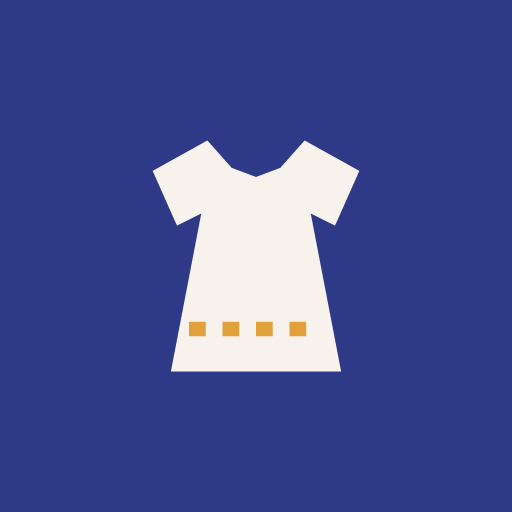
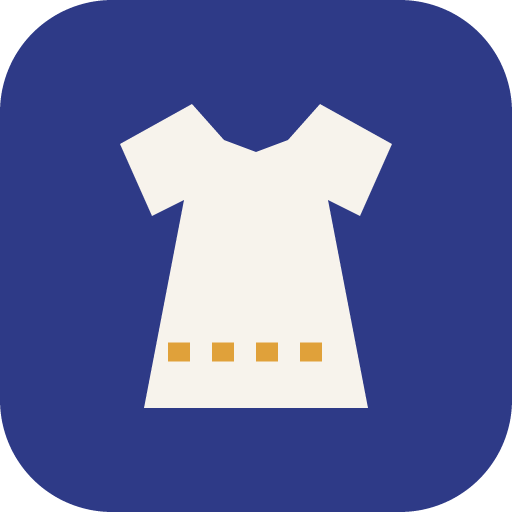
Desktop app: installable Mabubu with an honest install button, stable identity and version info
- Manifest: id '/' and scope '/' written out (what browsers already derived
  from start_url, so phones that installed it keep one app, no duplicate);
  launch_handler focus-existing (opening Mabubu again brings the open window
  forward); lang and categories; a rounded 512 px "any" icon for the Windows
  shortcut, taskbar and Start menu, and the full-bleed artwork as a separate
  maskable icon for Android.
- Install button only when the browser has offered an install
  (beforeinstallprompt), using the browser's own dialog — never a button that
  does nothing. Otherwise plain Chrome/Edge/Android instructions. Under Me:
  "Installed — running as the app" or "Running in the browser", and the app
  version (0.1.0 · testing) with its build date. A dismissible one-line offer
  on the manager overview. The installed app is the same site: same account,
  records and server; nothing is copied.
- en/fr/sw strings (not native-reviewed).

diff --git a/src/client/ui/Install.tsx b/src/client/ui/Install.tsx
@@ -1,0 +1,82 @@
+import { useState } from 'react';
+import { promptInstall, useInstall } from '../lib/install';
+import { useT } from '../lib/i18n';
+import { fmtDate } from '../../shared/time';
+import { Icon } from './Icon';
+import { toast } from './kit';
+
+const DISMISS_KEY = 'mabubu.installBannerDismissed';
+
+async function install(t: ReturnType<typeof useT>) {
+  if ((await promptInstall()) === 'accepted') toast(t('inst.started'));
+}
+
+/** Under Me: how this device runs Mabubu, the browser's own install offer when there is one, and the version. */
+export function InstallSection() {
+  const { canInstall, installed } = useInstall();
+  const t = useT();
+  return (
+    <section className="card card-pad stack">
+      <span className="section-title">{t('inst.title')}</span>
+      <dl className="kv">
+        <dt>{t('inst.app')}</dt>
+        <dd>{installed ? t('inst.installed') : t('inst.browser')}</dd>
+        <dt>{t('inst.version')}</dt>
+        <dd>{t('inst.versionValue', { version: __APP_VERSION__, date: fmtDate(__BUILD_TIME__.slice(0, 10)) })}</dd>
+      </dl>
+      {!installed && (
+        <>
+          <p className="soft" style={{ margin: 0 }}>
+            {t('inst.lead')}
+          </p>
+          {canInstall ? (
+            <button className="btn btn-primary" style={{ alignSelf: 'flex-start' }} onClick={() => void install(t)}>
+              <Icon name="plus" size={18} /> {t('inst.button')}
+            </button>
+          ) : (
+            <p className="hint" style={{ margin: 0 }}>
+              {t('inst.how')}
+            </p>
+          )}
+        </>
+      )}
+    </section>
+  );
+}
+
+/** A one-line, dismissible offer on the overview, shown only when the browser can install right now. */
+export function InstallBanner() {
+  const { canInstall, installed } = useInstall();
+  const t = useT();
+  const [dismissed, setDismissed] = useState(() => {
+    try {
+      return localStorage.getItem(DISMISS_KEY) === '1';
+    } catch {
+      return false;
+    }
+  });
+  if (!canInstall || installed || dismissed) return null;
+  return (
+    <div className="info-box row-between" style={{ flexWrap: 'wrap', gap: 10 }}>
+      <span>{t('inst.title')}</span>
+      <span className="row" style={{ gap: 6 }}>
+        <button className="btn btn-sm btn-primary" onClick={() => void install(t)}>
+          {t('inst.button')}
+        </button>
+        <button
+          className="btn btn-sm btn-ghost"
+          onClick={() => {
+            setDismissed(true);
+            try {
+              localStorage.setItem(DISMISS_KEY, '1');
+            } catch {
+              /* storage unavailable: the banner just returns next time */
+            }
+          }}
+        >
+          {t('inst.notNow')}
+        </button>
+      </span>
+    </div>
+  );
+}

diff --git a/src/client/lib/install.ts b/src/client/lib/install.ts
@@ -1,0 +1,71 @@
+// Installing Mabubu as an app on this device (Chrome and Edge on Windows,
+// Chrome on Android). Only the browser's own install flow is used: the
+// Install button appears only after the browser has offered an install
+// (`beforeinstallprompt`), so it can never be a button that does nothing.
+// The installed app is the same site — same account, same records, same
+// server; nothing is copied and no second database is made.
+
+import { useSyncExternalStore } from 'react';
+
+interface BeforeInstallPromptEvent extends Event {
+  prompt(): Promise<void>;
+  userChoice: Promise<{ outcome: 'accepted' | 'dismissed' }>;
+}
+
+export interface InstallState {
+  /** The browser has offered an install that our button can open. */
+  canInstall: boolean;
+  /** This page is running as the installed app (its own window), not in a browser tab. */
+  installed: boolean;
+}
+
+let offer: BeforeInstallPromptEvent | null = null;
+let state: InstallState = { canInstall: false, installed: false };
+const listeners = new Set<() => void>();
+const emit = (patch: Partial<InstallState>) => {
+  state = { ...state, ...patch };
+  for (const l of listeners) l();
+};
+
+function runningInstalled(): boolean {
+  if (typeof window === 'undefined' || !window.matchMedia) return false;
+  return ['standalone', 'window-controls-overlay', 'minimal-ui'].some((m) => window.matchMedia(`(display-mode: ${m})`).matches);
+}
+
+/** Start listening before the first render, so the browser's offer is not missed. */
+export function watchInstall() {
+  if (typeof window === 'undefined') return;
+  state = { ...state, installed: runningInstalled() };
+  window.addEventListener('beforeinstallprompt', (e) => {
+    // Keep the offer for our own, quieter button instead of the browser's banner.
+    e.preventDefault();
+    offer = e as BeforeInstallPromptEvent;
+    emit({ canInstall: true });
+  });
+  window.addEventListener('appinstalled', () => {
+    offer = null;
+    emit({ canInstall: false });
+  });
+  window.matchMedia?.('(display-mode: standalone)').addEventListener?.('change', () => emit({ installed: runningInstalled() }));
+}
+
+/** Open the browser's own install dialog. The browser allows this once per offer. */
+export async function promptInstall(): Promise<'accepted' | 'dismissed' | 'unavailable'> {
+  const e = offer;
+  if (!e) return 'unavailable';
+  offer = null;
+  emit({ canInstall: false });
+  await e.prompt();
+  return (await e.userChoice).outcome;
+}
+
+export function useInstall(): InstallState {
+  return useSyncExternalStore(
+    (fn) => {
+      listeners.add(fn);
+      return () => listeners.delete(fn);
+    },
+    () => state,
+    () => state,
+  );
+}

diff --git a/vite.config.ts b/vite.config.ts
@@ -1,8 +1,16 @@
+import { readFileSync } from 'node:fs';
 import { defineConfig } from 'vite';
 import react from '@vitejs/plugin-react';
 import { VitePWA } from 'vite-plugin-pwa';
 
+const { version } = JSON.parse(readFileSync(new URL('./package.json', import.meta.url), 'utf8')) as { version: string };
+
 export default defineConfig({
+  // Shown under Me so anyone can tell which build a device runs.
+  define: {
+    __APP_VERSION__: JSON.stringify(version),
+    __BUILD_TIME__: JSON.stringify(new Date().toISOString()),
+  },
   plugins: [
     react(),
     VitePWA({
@@ -10,18 +18,27 @@ export default defineConfig({
       injectRegister: false,
       includeAssets: ['favicon.svg'],
       manifest: {
+        // `id` and `scope` are what browsers already derived from start_url
+        // '/', written out so the installed app keeps one identity (no second
+        // install on phones that already have it).
+        id: '/',
         name: 'Mabubu — business records',
         short_name: 'Mabubu',
         description: 'Stock, shipments, sales and cash for the Mabubu family business.',
+        lang: 'en',
+        categories: ['business', 'productivity'],
         theme_color: '#2e3a87',
         background_color: '#f7f3ec',
         display: 'standalone',
         orientation: 'any',
         start_url: '/',
+        scope: '/',
+        // Opening Mabubu again brings the open window forward instead of a second copy.
+        launch_handler: { client_mode: ['focus-existing', 'auto'] },
         icons: [
-          { src: 'icon-192.png', sizes: '192x192', type: 'image/png' },
-          { src: 'icon-512.png', sizes: '512x512', type: 'image/png' },
-          { src: 'icon-512.png', sizes: '512x512', type: 'image/png', purpose: 'maskable' },
+          { src: 'icon-192.png', sizes: '192x192', type: 'image/png', purpose: 'any' },
+          { src: 'icon-512.png', sizes: '512x512', type: 'image/png', purpose: 'any' },
+          { src: 'icon-maskable-512.png', sizes: '512x512', type: 'image/png', purpose: 'maskable' },
         ],
       },
       workbox: {

diff --git a/src/shared/i18n/fr.ts b/src/shared/i18n/fr.ts
@@ -219,6 +219,17 @@ export const fr: Record<Key, string> = {
   'me.storageWarn': 'Ce navigateur n’a pas promis de garder les données de Mabubu sur cet appareil. Si elles sont effacées, cet appareil devra être approuvé à nouveau (les données déjà envoyées sont en sécurité). Utiliser l’application installée dans une fenêtre normale aide.',
   'me.waiting': 'En attente d’envoi',
   'me.rejected': 'Refusés par le serveur',
+  'inst.title': 'Utiliser Mabubu comme une application',
+  'inst.lead': 'Installez-la sur cet appareil : elle s’ouvre dans sa propre fenêtre depuis le bureau, le menu Démarrer ou la barre des tâches (sur un téléphone, depuis l’écran d’accueil) et fonctionne hors ligne. Même compte, mêmes enregistrements — rien n’est copié.',
+  'inst.button': 'Installer Mabubu',
+  'inst.installed': 'Installée — ouverte comme application',
+  'inst.browser': 'Ouverte dans le navigateur',
+  'inst.how': 'Pour installer : dans Chrome ou Edge, ouvrez le menu du navigateur (⋮ ou …) et choisissez « Installer Mabubu » (dans Edge : Applications → Installer ce site en tant qu’application). Sur un téléphone Android : menu ⋮ → Installer l’application ou Ajouter à l’écran d’accueil.',
+  'inst.notNow': 'Plus tard',
+  'inst.started': 'Installation de Mabubu en cours. La prochaine fois, ouvrez-la depuis le bureau, le menu Démarrer ou la barre des tâches.',
+  'inst.app': 'Application',
+  'inst.version': 'Version',
+  'inst.versionValue': '{version} · en test (pré-version) · compilée le {date}',
   'me.lateWaiting': 'En attente d’un responsable',
   'me.lateWaitingHint': 'Ces saisies sont arrivées au serveur après la clôture de leur journée. Rien n’est perdu : un responsable accepte ou refuse chacune.',
   'me.dismiss': 'Masquer',

diff --git a/src/shared/i18n/sw.ts b/src/shared/i18n/sw.ts
@@ -219,6 +219,17 @@ export const sw: Record<Key, string> = {
   'me.storageWarn': 'Kivinjari hiki hakijaahidi kuhifadhi data ya Mabubu kwenye kifaa hiki. Ikifutwa, kifaa hiki kitahitaji kuidhinishwa tena (kumbukumbu zilizokwisha tumwa ziko salama). Kutumia programu iliyosakinishwa katika dirisha la kawaida husaidia.',
   'me.waiting': 'Zinasubiri kutumwa',
   'me.rejected': 'Hazikukubaliwa na seva',
+  'inst.title': 'Tumia Mabubu kama programu',
+  'inst.lead': 'Isakinishe kwenye kifaa hiki: inafunguka kwenye dirisha lake kutoka kwenye desktop, menyu ya Start au taskbar (kwenye simu, kutoka skrini ya mwanzo) na inafanya kazi bila mtandao. Akaunti ile ile, rekodi zile zile — hakuna kinachonakiliwa.',
+  'inst.button': 'Sakinisha Mabubu',
+  'inst.installed': 'Imesakinishwa — inafanya kazi kama programu',
+  'inst.browser': 'Inafanya kazi kwenye kivinjari',
+  'inst.how': 'Kusakinisha: kwenye Chrome au Edge, fungua menyu ya kivinjari (⋮ au …) na uchague “Install Mabubu” (kwenye Edge: Apps → Install this site as an app). Kwenye simu ya Android: menyu ⋮ → Install app au Add to Home screen.',
+  'inst.notNow': 'Si sasa',
+  'inst.started': 'Mabubu inasakinishwa. Wakati ujao, ifungue kutoka kwenye desktop, menyu ya Start au taskbar.',
+  'inst.app': 'Programu',
+  'inst.version': 'Toleo',
+  'inst.versionValue': '{version} · majaribio (kabla ya toleo rasmi) · ilijengwa {date}',
   'me.lateWaiting': 'Zinasubiri meneja',
   'me.lateWaitingHint': 'Rekodi hizi zilifika kwenye seva baada ya siku yake kufungwa. Hakuna kilichopotea: meneja anakubali au anakataa kila moja.',
   'me.dismiss': 'Ondoa',

diff --git a/src/shared/i18n/en.ts b/src/shared/i18n/en.ts
@@ -230,6 +230,17 @@ export const en = {
   'me.storageWarn': 'This browser has not promised to keep Mabubu’s data on this device. If it is cleared, this device must be approved again (records already sent are safe). Using the installed app in a normal window helps.',
   'me.waiting': 'Waiting to sync',
   'me.rejected': 'Not accepted by the server',
+  'inst.title': 'Use Mabubu like an app',
+  'inst.lead': 'Install it on this device: it opens in its own window from the desktop, Start menu or taskbar (on a phone, from the home screen) and works offline. Same account, same records — nothing is copied.',
+  'inst.button': 'Install Mabubu',
+  'inst.installed': 'Installed — running as the app',
+  'inst.browser': 'Running in the browser',
+  'inst.how': 'To install: in Chrome or Edge, open the browser menu (⋮ or …) and choose “Install Mabubu” (in Edge: Apps → Install this site as an app). On an Android phone: menu ⋮ → Install app or Add to Home screen.',
+  'inst.notNow': 'Not now',
+  'inst.started': 'Mabubu is being installed. Next time, open it from the desktop, Start menu or taskbar.',
+  'inst.app': 'App',
+  'inst.version': 'Version',
+  'inst.versionValue': '{version} · testing (pre-release) · built {date}',
   'me.lateWaiting': 'Waiting for a manager',
   'me.lateWaitingHint': 'These reached the server after their day was closed. Nothing is lost: a manager accepts or rejects each one.',
   'me.dismiss': 'Dismiss',

diff --git a/src/client/screens/manage/Overview.tsx b/src/client/screens/manage/Overview.tsx
@@ -12,6 +12,7 @@ import type { Key } from '../../../shared/i18n';
 import { useGreeting } from '../../ui/Greeting';
 import { Icon } from '../../ui/Icon';
 import { Money, Monogram, PageHead, Seg, Stat } from '../../ui/kit';
+import { InstallBanner } from '../../ui/Install';
 
 export function ScopeSwitch() {
   const { prefs } = useApp();
@@ -113,6 +114,7 @@ export function Overview() {
         }
         actions={<ScopeSwitch />}
       />
+      {!demo && <InstallBanner />}
 
       <div className="grid cols-4">
         <Stat label={t('ov.ready')} value={data.totals.avail.toLocaleString('en-US')} sub={scope ? t('ov.piecesIn', { place: lk.locName(scope) }) : t('ov.piecesAll')} />

diff --git a/src/client/screens/shared/Tools.tsx b/src/client/screens/shared/Tools.tsx
@@ -8,6 +8,7 @@ import { LocalCountToggle, Monogram, PageHead, Seg, Stepper } from '../../ui/kit
 import { errText, useT } from '../../lib/i18n';
 import { LanguageSwitch } from '../auth/Language';
 import { LatePill } from '../../ui/Late';
+import { InstallSection } from '../../ui/Install';
 
 /** Optional banknote counter. Never part of the sales flow. */
 export function CashCounter() {
@@ -148,6 +149,8 @@ export function SyncCenter() {
           )}
         </div>
       </section>
+
+      {!demo && <InstallSection />}
 
       <section className="card card-pad stack">
         <span className="section-title">{t('me.display')}</span>

diff --git a/src/client/main.tsx b/src/client/main.tsx
@@ -7,6 +7,9 @@ import '@fontsource-variable/jetbrains-mono/index.css';
 import './styles/app.css';
 import { App } from './App';
 import { store } from './lib/store';
+import { watchInstall } from './lib/install';
+
+watchInstall();
 
 if ('serviceWorker' in navigator && import.meta.env.PROD) {
   void import('virtual:pwa-register').then(({ registerSW }) => registerSW({ immediate: true }));

diff --git a/src/client/env.d.ts b/src/client/env.d.ts
@@ -1,0 +1,3 @@
+// Build-time values (vite.config.ts `define`).
+declare const __APP_VERSION__: string;
+declare const __BUILD_TIME__: string;
